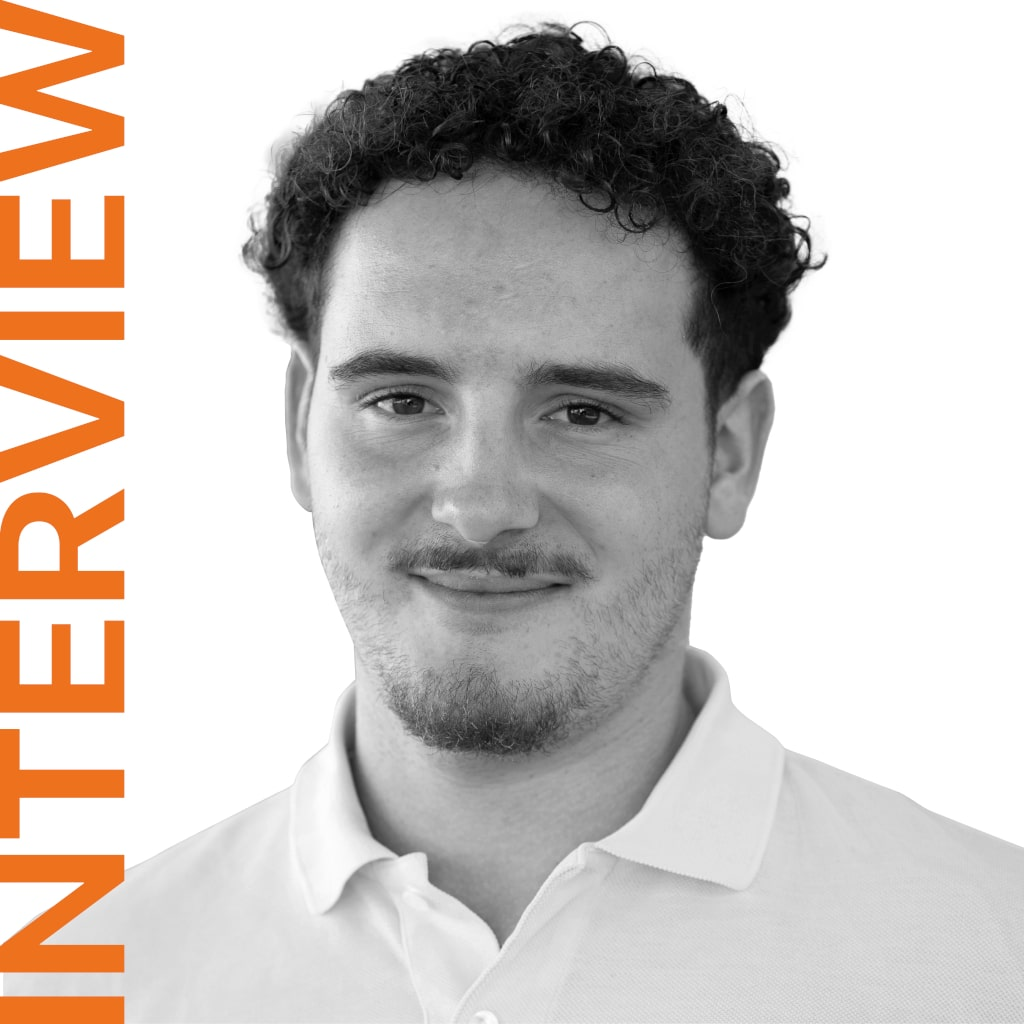
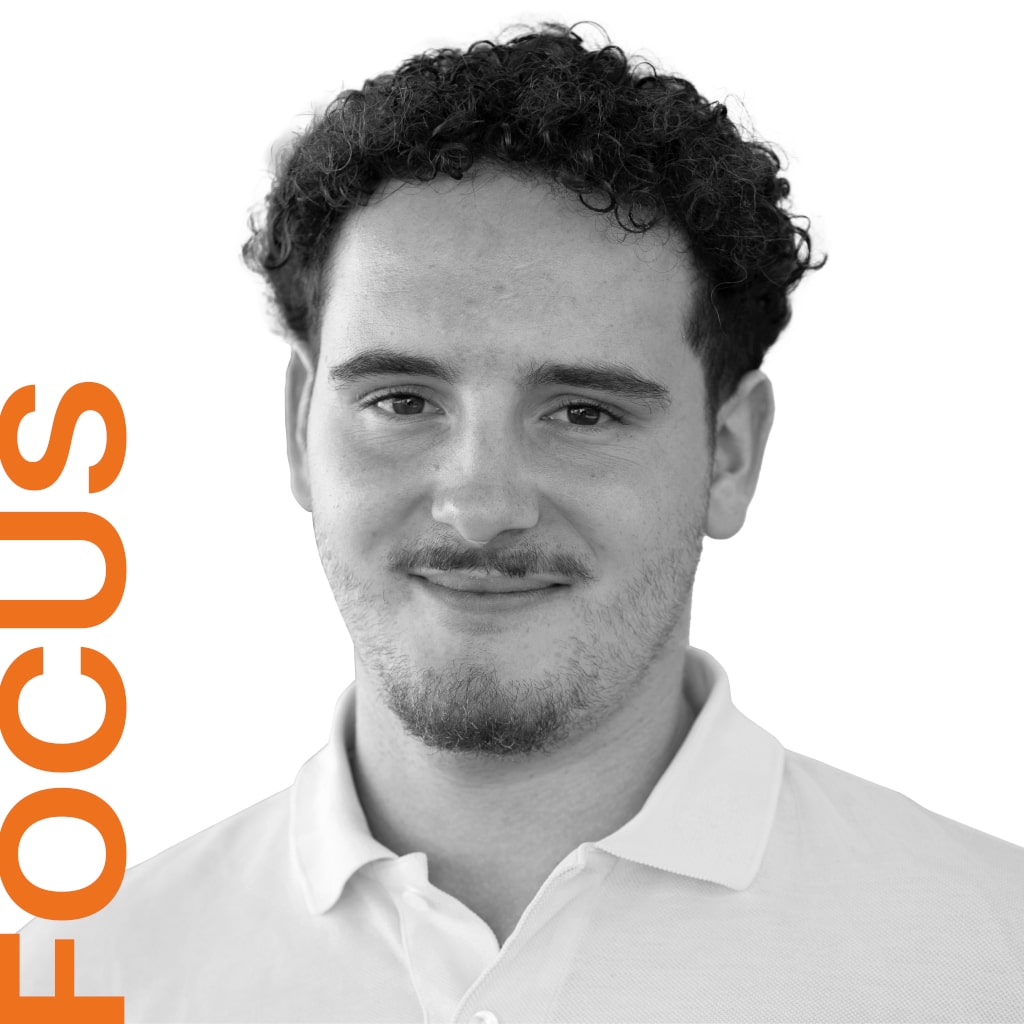
contact meta datas + update headers photos

Changed region(s): [[0.0, 0.0, 0.125, 1.0]]

diff --git a/src/app/[locale]/contact/page.tsx b/src/app/[locale]/contact/page.tsx
@@ -1,85 +1,47 @@
-"use client";
-
-import DoctorsForm from "@/app/components/email/doctorsForm";
-import ManufacturersForm from "@/app/components/email/manufacturersForm";
-import header from "@/app/img/heritage-magazine-by-healthcie.jpg";
-import manufacturers from "@/app/img/strategie-digitale-laboratoires-medical-consulting.jpg";
-import doctor from "@/app/img/webinaire-speaker-digital-reputation-medical.jpg";
+import DisplayForms from "@/app/components/contact/displayForms";
+import header from "@/app/img/apparaitre-magazine-heritage-esthetique.jpg";
 import { useTranslations } from "next-intl";
 import Image from "next/image";
-import { useState } from "react";
+
+type Params = {
+  params: { locale: string };
+};
+
+export async function generateMetadata({ params }: Params) {
+  const locale = params.locale;
+  if (locale === "en") {
+    return {
+      title: "Contact HERITAGE Magazine | Surgery & Aesthetic Medicine",
+      description:
+        "If you're a doctor or a medical device company and would like to write an article for HERITAGE Magazine, please contact us.",
+    };
+  } else if (locale === "fr") {
+    return {
+      title: "Contact HERITAGE Magazine | Chirurgie & Médecine Esthétique",
+      description:
+        "Vous êtes médecin ou industriel de santé et vous souhaitez rédiger un article dans HERITAGE Magazine, contactez-nous.",
+    };
+  }
+}
 
 export default function Contact() {
   const t = useTranslations("Contact");
-  const [left, setLeft] = useState(true);
-  const [right, setRight] = useState(false);
 
   return (
     <main>
       <section>
         <div className="px-5 py-4 max-lg:h-[500px] lg:h-screen max-h-[1200px] grid items-end relative lg:px-7 lg:py-4">
-          <span className="text-white uppercase text-3xl lg:text-8xl">
+          <h1 className="text-white uppercase text-3xl lg:text-8xl">
             {t("h1")}
-          </span>
+          </h1>
           <Image
             src={header}
             alt=""
-            className="absolute lg:fixed size-full top-0 left-0 object-cover -z-[1] opacity-85"
+            className="absolute lg:fixed size-full top-0 left-0 object-cover object-top -z-[1] opacity-85"
           />
         </div>
       </section>
-      <section className="lg:grid lg:grid-cols-2 bg-mainBlue lg:h-screen lg:max-h-[1024px] overflow-hidden">
-        <div className="lg:col-span-1 h-full relative px-4 py-12 lg:p-24 flex flex-col justify-center">
-          <div
-            className={`${
-              left
-                ? "opacity-30 -right-[100%] z-[9]"
-                : "opacity-100 right-[0%] z-10"
-            } transition-all duration-500 absolute size-full z-10 top-0 cursor-pointer`}
-            onClick={() => {
-              setLeft(true);
-              setRight(false);
-            }}
-          >
-            <Image
-              src={doctor}
-              alt=""
-              className="object-cover size-full z-[1] "
-            />
-            <div className="z-[2] absolute size-full bg-black/30 top-0 left-0 text-center flex flex-col justify-center px-4 lg:px-10 gap-2 lg:gap-4">
-              <h2 className="text-white text-3xl lg:text-6xl">
-                {t("form.displayDoctors")}
-              </h2>
-            </div>
-          </div>
-          <DoctorsForm />
-        </div>
-        <div className="lg:col-span-1 h-full relative px-4 py-12 lg:p-24 flex flex-col justify-center max-lg:border-t-[1px] lg:border-l-[1px] border-white/20">
-          <div
-            className={`${
-              right
-                ? "opacity-30 -left-[100%] z-[9]"
-                : "opacity-100 left-[0%] z-10"
-            } transition-all duration-500 absolute size-full  top-0 cursor-pointer`}
-            onClick={() => {
-              setLeft(false);
-              setRight(true);
-            }}
-          >
-            <Image
-              src={manufacturers}
-              alt=""
-              className="object-cover size-full z-[1] "
-            />
-            <div className="z-[2] absolute size-full bg-black/30 top-0 left-0 text-center flex flex-col justify-center px-4 lg:px-10 gap-2 lg:gap-4">
-              <h2 className="text-white text-3xl lg:text-6xl">
-                {t("form.displayManufacturers")}
-              </h2>
-            </div>
-          </div>
-          <ManufacturersForm />
-        </div>
-      </section>
+      <DisplayForms />
     </main>
   );
 }

diff --git a/src/app/components/contact/displayForms.tsx b/src/app/components/contact/displayForms.tsx
@@ -1,0 +1,70 @@
+"use client";
+
+import DoctorsForm from "@/app/components/email/doctorsForm";
+import ManufacturersForm from "@/app/components/email/manufacturersForm";
+import manufacturers from "@/app/img/strategie-digitale-laboratoires-medical-consulting.jpg";
+import doctor from "@/app/img/webinaire-speaker-digital-reputation-medical.jpg";
+import { useTranslations } from "next-intl";
+import Image from "next/image";
+import { useState } from "react";
+
+export default function DisplayForms() {
+  const t = useTranslations("Contact");
+  const [left, setLeft] = useState(true);
+  const [right, setRight] = useState(false);
+
+  return (
+    <section className="lg:grid lg:grid-cols-2 bg-mainBlue lg:h-screen lg:max-h-[1024px] overflow-hidden">
+      <div className="lg:col-span-1 h-full relative px-4 py-12 lg:p-24 flex flex-col justify-center">
+        <div
+          className={`${
+            left
+              ? "opacity-30 -right-[100%] z-[9]"
+              : "opacity-100 right-[0%] z-10"
+          } transition-all duration-500 absolute size-full z-10 top-0 cursor-pointer`}
+          onClick={() => {
+            setLeft(true);
+            setRight(false);
+          }}
+        >
+          <Image
+            src={doctor}
+            alt=""
+            className="object-cover size-full z-[1] "
+          />
+          <div className="z-[2] absolute size-full hover:bg-mainBlue/30 bg-mainBlue/80 transition-all duration-300 top-0 left-0 text-center flex flex-col justify-center px-4 lg:px-10 gap-2 lg:gap-4">
+            <h2 className="text-white text-3xl lg:text-6xl">
+              {t("form.displayDoctors")}
+            </h2>
+          </div>
+        </div>
+        <DoctorsForm />
+      </div>
+      <div className="lg:col-span-1 h-full relative px-4 py-12 lg:p-24 flex flex-col justify-center max-lg:border-t-[1px] lg:border-l-[1px] border-white/20">
+        <div
+          className={`${
+            right
+              ? "opacity-30 -left-[100%] z-[9]"
+              : "opacity-100 left-[0%] z-10"
+          } transition-all duration-500 absolute size-full  top-0 cursor-pointer`}
+          onClick={() => {
+            setLeft(false);
+            setRight(true);
+          }}
+        >
+          <Image
+            src={manufacturers}
+            alt=""
+            className="object-cover size-full z-[1] "
+          />
+          <div className="z-[2] absolute size-full hover:bg-mainBlue/30 bg-mainBlue/80 transition-all duration-300 top-0 left-0 text-center flex flex-col justify-center px-4 lg:px-10 gap-2 lg:gap-4">
+            <h2 className="text-white text-3xl lg:text-6xl">
+              {t("form.displayManufacturers")}
+            </h2>
+          </div>
+        </div>
+        <ManufacturersForm />
+      </div>
+    </section>
+  );
+}

diff --git a/src/app/[locale]/(articles)/articles/page.tsx b/src/app/[locale]/(articles)/articles/page.tsx
@@ -1,10 +1,10 @@
 import Button from "@/app/components/buttons/Button";
 import adda from "@/app/img/doctor-adda-jean-marc-heritage-magazine.jpg";
 import ascher from "@/app/img/doctor-ascher-benjamin-heritage-magazine.jpg";
-import header from "@/app/img/heritage-magazine-publication-kol.jpg";
 import hugo from "@/app/img/nivault-hugo-heritage-magazine.jpg";
 import olivier from "@/app/img/olivier-claire-couraud-heritage-magazine.jpg";
 import barbara from "@/app/img/professor-hersant-barbara-heritage-magazine.jpg";
+import header from "@/app/img/publications-magazine-heritage-esthetique-1.jpg";
 import julien from "@/app/img/vervel-julien-heritage-magazine.jpg";
 import { useTranslations } from "next-intl";
 import Image from "next/image";

diff --git a/src/app/[locale]/about/page.tsx b/src/app/[locale]/about/page.tsx
@@ -1,6 +1,6 @@
-import header from "@/app/img/heritage-magazine-by-healthcie.jpg";
+import header from "@/app/img/heritage-innovation-sante-magazine-specialiste.jpg";
+import follow from "@/app/img/heritage-magazine-innovation-sante-revue-specialisee.jpg";
 import miror from "@/app/img/heritage-magazine-sante.png";
-import follow from "@/app/img/magazine-innovation-sante.jpg";
 import { useTranslations } from "next-intl";
 import Image from "next/image";
 import Link from "next/link";

diff --git a/src/app/[locale]/globals.css b/src/app/[locale]/globals.css
@@ -17,12 +17,12 @@
   }
 
   .h2 {
-    @apply max-lg:text-center font-sfPro font-bold text-xl lg:text-2xl uppercase;
+    @apply max-lg:text-center font-sfPro font-semibold text-xl lg:text-2xl uppercase;
     line-height: 1.25em;
   }
 
   .h3 {
-    @apply max-lg:text-center font-sfPro font-semibold text-lg lg:text-xl text-orange;
+    @apply max-lg:text-center font-sfPro font-medium text-lg lg:text-xl text-orange;
     line-height: 1.25em;
   }
 
